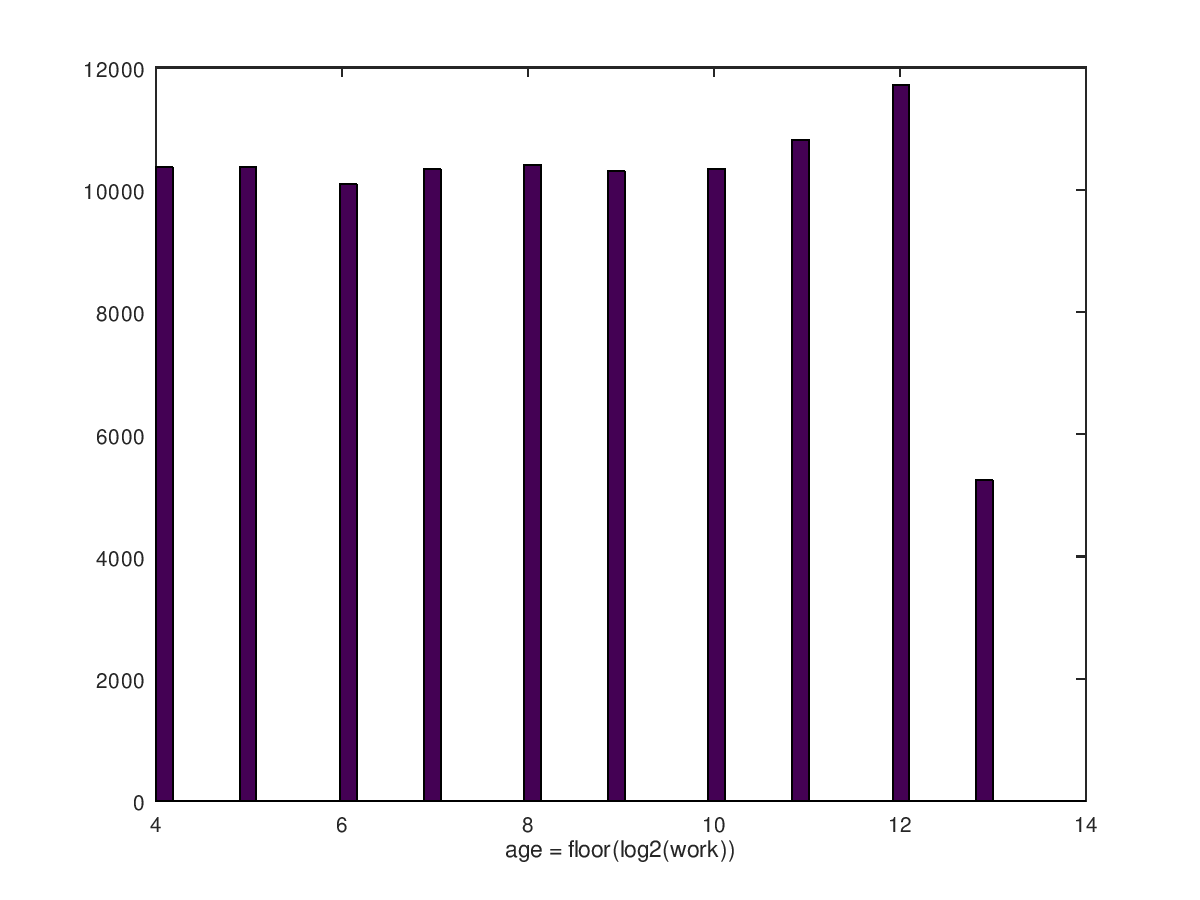
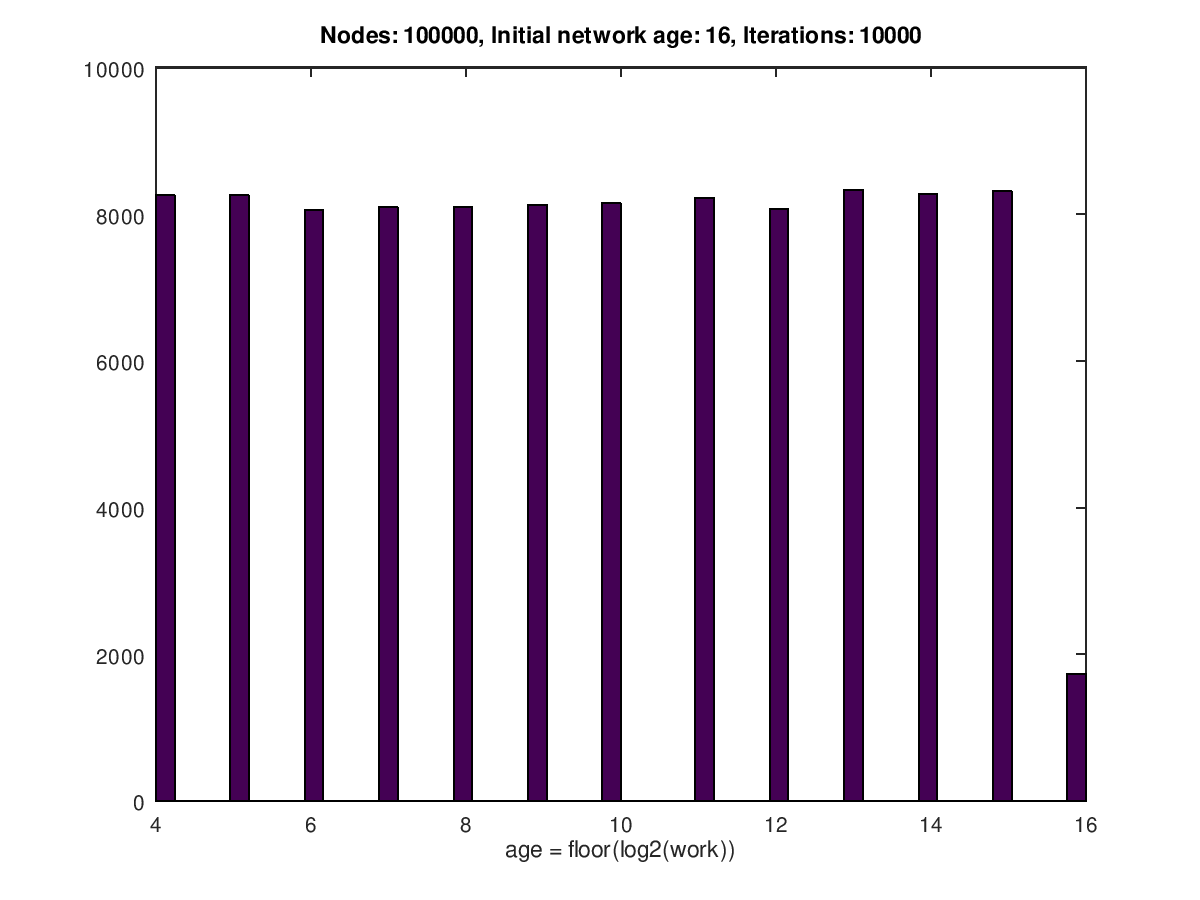
Update simple model to correctly initialise

diff --git a/model_without_sections.m b/model_without_sections.m
@@ -1,15 +1,17 @@
 clear all
 
-init_network_iterations = 10000;
-network_iterations = 10000;
+%init_network_iterations = 10000;
+init_network_iterations = 0;
+network_iterations = 20000;
 network_size = 100000;
+network_age = 32;
 
 % Initial setup
-nodes.work = 2.^linspace(3,8,network_size);
+nodes.work = 2.^((network_age-4)*rand(1,network_size) + 4);
 nodes.age = floor(log2(nodes.work));
 nodes.malicious = logical(zeros(size(nodes.work)));
 
-% Fully mature network
+% Run without adversaries first for awhile to check the work distribution assumption
 for n = 1:init_network_iterations
     % All nodes does 1 unit of work w
     nodes.work += 1;
@@ -27,22 +29,26 @@ for n = 1:init_network_iterations
         figure(1)
         hist(nodes.work, 50);
         xlabel('work');
+        title(['Nodes: ',num2str(network_size),', Initial network age: ', num2str(network_age),', Iterations: ', num2str(n)])
         drawnow
 
         figure(2)
         hist(log2(nodes.work), 50);
         xlabel('log2(work)');
+        title(['Nodes: ',num2str(network_size),', Initial network age: ', num2str(network_age),', Iterations: ', num2str(n)])
         drawnow
 
         figure(3)
         hist(nodes.age, 50);
         xlabel('age = floor(log2(work))')
+        title(['Nodes: ',num2str(network_size),', Initial network age: ', num2str(network_age),', Iterations: ', num2str(n)])
         drawnow
 
         figure(4)
         semilogy(1:n, fraction_of_network_resetting, 1:n, fraction_of_work_resetting)
         legend("Network reset rate", "Work reset rate");
         grid on
+        title(['Nodes: ',num2str(network_size),', Initial network age: ', num2str(network_age),', Iterations: ', num2str(n)])
         drawnow
     end
 end
@@ -95,22 +101,40 @@ for n = 1:network_iterations
     fraction_of_initial_nodes_lost(init_network_iterations + n) = 1 - sum(nodes.initial)/length(nodes.initial);
 
     if mod(n, 100) == 0
+        figure(1)
+        hist(nodes.work, 50);
+        xlabel('work');
+        drawnow
+
+        figure(2)
+        hist(log2(nodes.work), 50);
+        xlabel('log2(work)');
+        drawnow
+
+        figure(3)
+        hist(nodes.age, 50);
+        xlabel('age = floor(log2(work))')
+        drawnow
+
         figure(4)
         semilogy(1:length(fraction_of_network_resetting), fraction_of_network_resetting, 1:length(fraction_of_work_resetting), fraction_of_work_resetting)
-        legend("Network reset rate", "Work reset rate");
+        legend({"Network reset rate", "Work reset rate"}, 'Location', 'West');
+        xlabel("work/node")
         grid on
+        title(['Nodes: ',num2str(network_size),', Initial network age: ', num2str(network_age)])
         drawnow
 
         figure(5)
         N = 1:length(fraction_of_network_resetting);
         plot(N, fraction_of_nodes_are_malicious, 'LineWidth', 2, N, frac_malicious_work, 'LineWidth', 2, N, frac_malicious_elder_work, 'LineWidth', 2);
-        xlabel("Iteration")
+        xlabel("work/node")
         legend({"Malicious nodes", "Malicious work", "Malicious elder work"},"Location", "NorthWest");
+        title(['Nodes: ',num2str(network_size),', Initial network age: ', num2str(network_age)])
         drawnow
     end
 end
 
 %figure(4)
-%print -dpng simple_model_network_reset_rate_with_attack.png
+%print(['simple_model_network_reset_rate_with_attack_network_age_',num2str(network_age),'.png'],'-dpng')
 %figure(5)
-%print -dpng simple_model_malicious_fractions.png
+%print(['simple_model_malicious_fractions_network_age_16_network_age_',num2str(network_age),'.png'],'-dpng')
